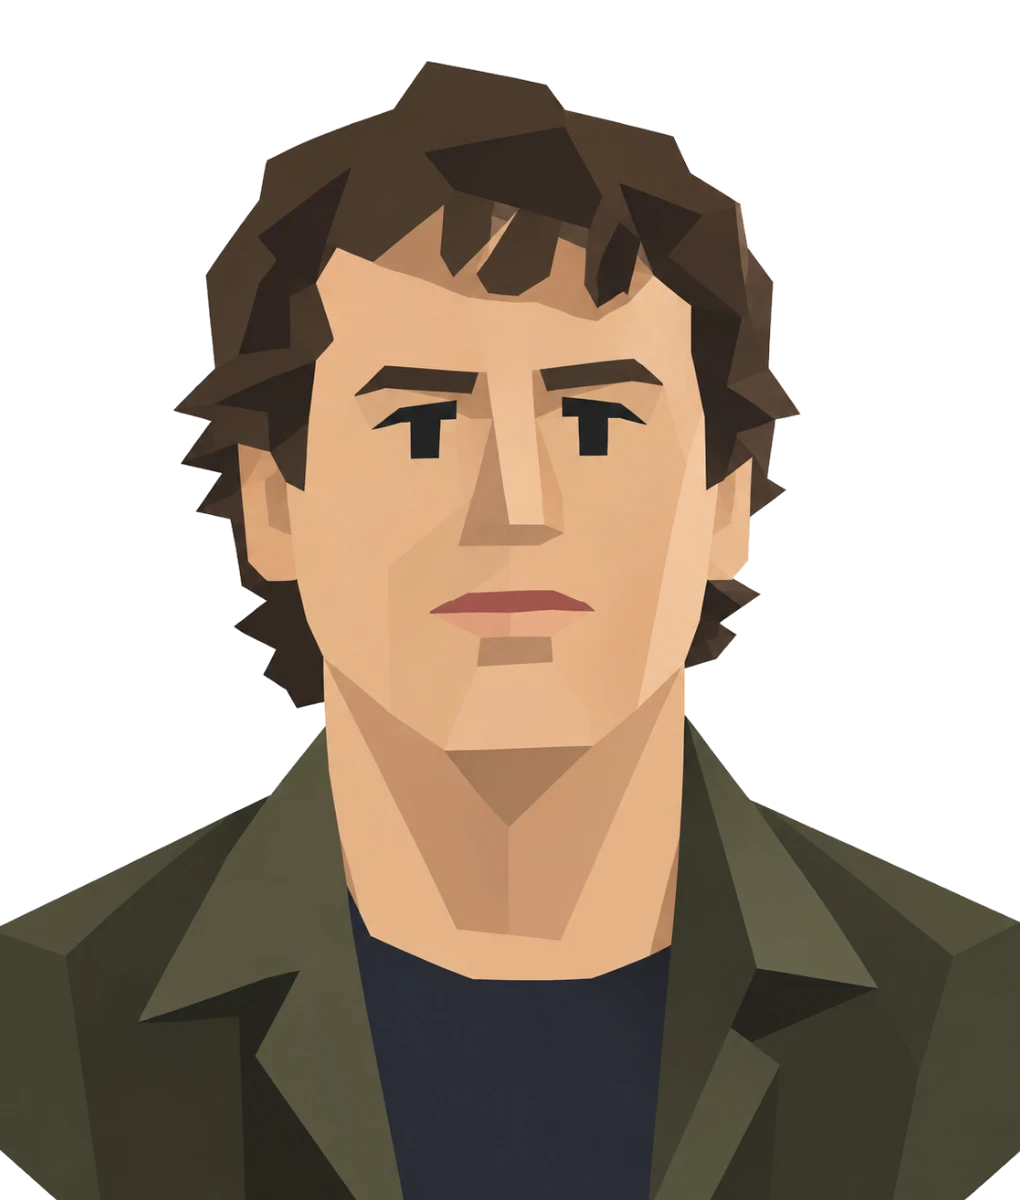
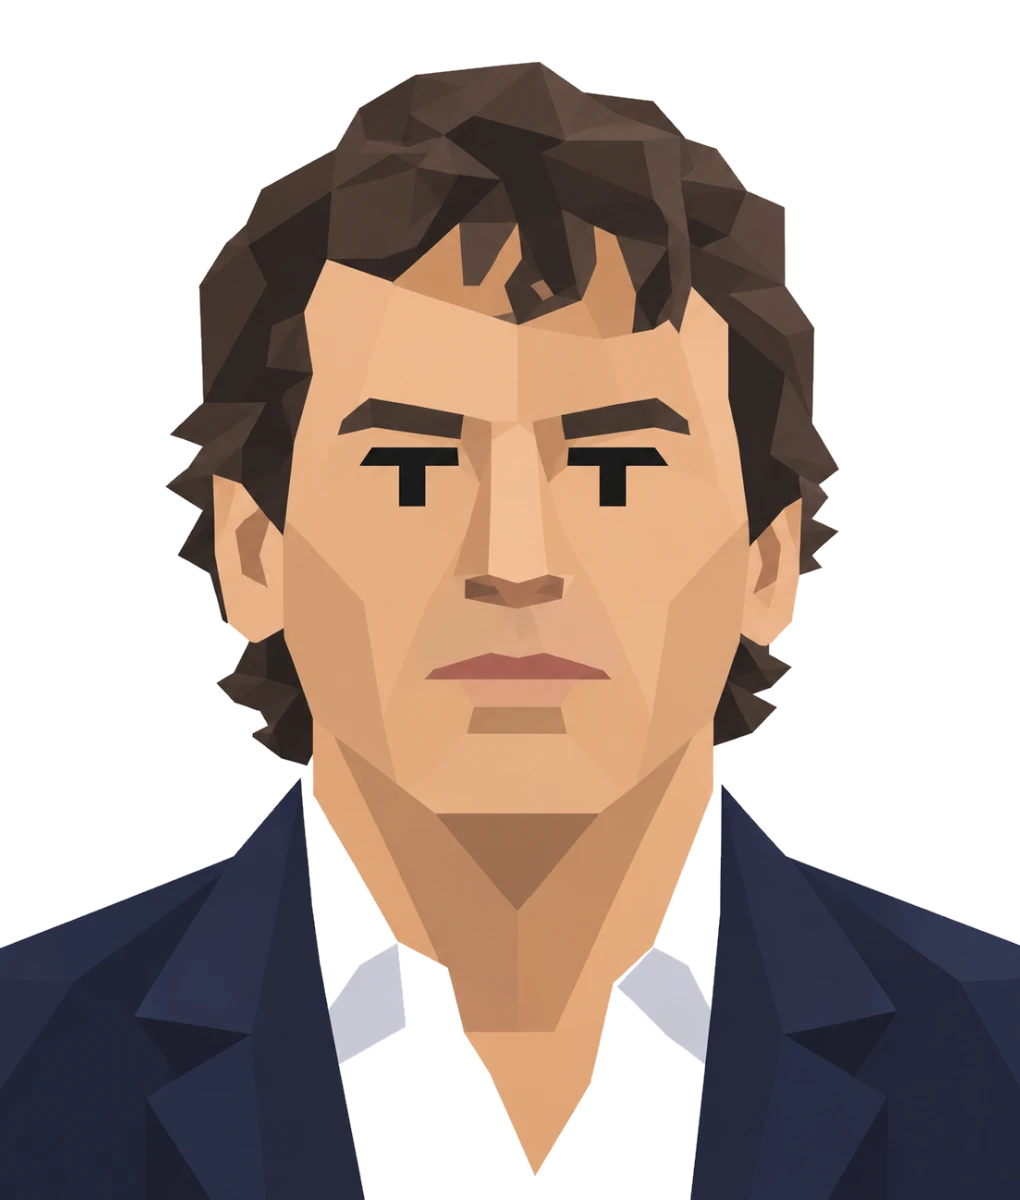
Retratos nuevos de El Hermano y El Escudero
Los dos con la marca negra plana en T de los ojos, que es lo que fallaba en el
hermano de ayer. Comprobado contra presi antes de darlos por buenos.

El del hermano traia 70 islas opacas sueltas fuera de la figura, que sobre el
fondo oscuro de la carta se verian como puntos de suciedad. Las limpia sola la
pasada que gano recortar-fondo.mjs ayer.

  hermano   55% opaco, 0.8 MB -> 58 KB, fondo de carta #14141b
  escudero  61% opaco, 0.9 MB -> 55 KB, fondo de carta #272a33

Los dos con bbox 0/60/1020/1200, calcado al de la referencia, y transparentes
junto a la cabeza (presi: 58%). Van en sus 27 y 23 cartas.

diff --git a/src/data/coloresRetrato.ts b/src/data/coloresRetrato.ts
@@ -12,13 +12,13 @@ export const COLOR_RETRATO: Record<string, string> = {
   'feminista.webp': '#36292e',
   'fiscal.webp': '#232124',
   'guru.webp': '#372525',
-  'hermano.webp': '#191814',
+  'hermano.webp': '#14141b',
   'independentista.webp': '#26262c',
   'jefecomunicacion.webp': '#0d101e',
   'juez.webp': '#111010',
   'ministraincompetente.webp': '#42444c',
   'ministrocorrupto.webp': '#2d292d',
-  'ministrolameculos.webp': '#272932',
+  'ministrolameculos.webp': '#272a33',
   'mopongo.webp': '#3b2123',
   'oposicionsuave.webp': '#1f232f',
   'periodista.webp': '#0b090b',
